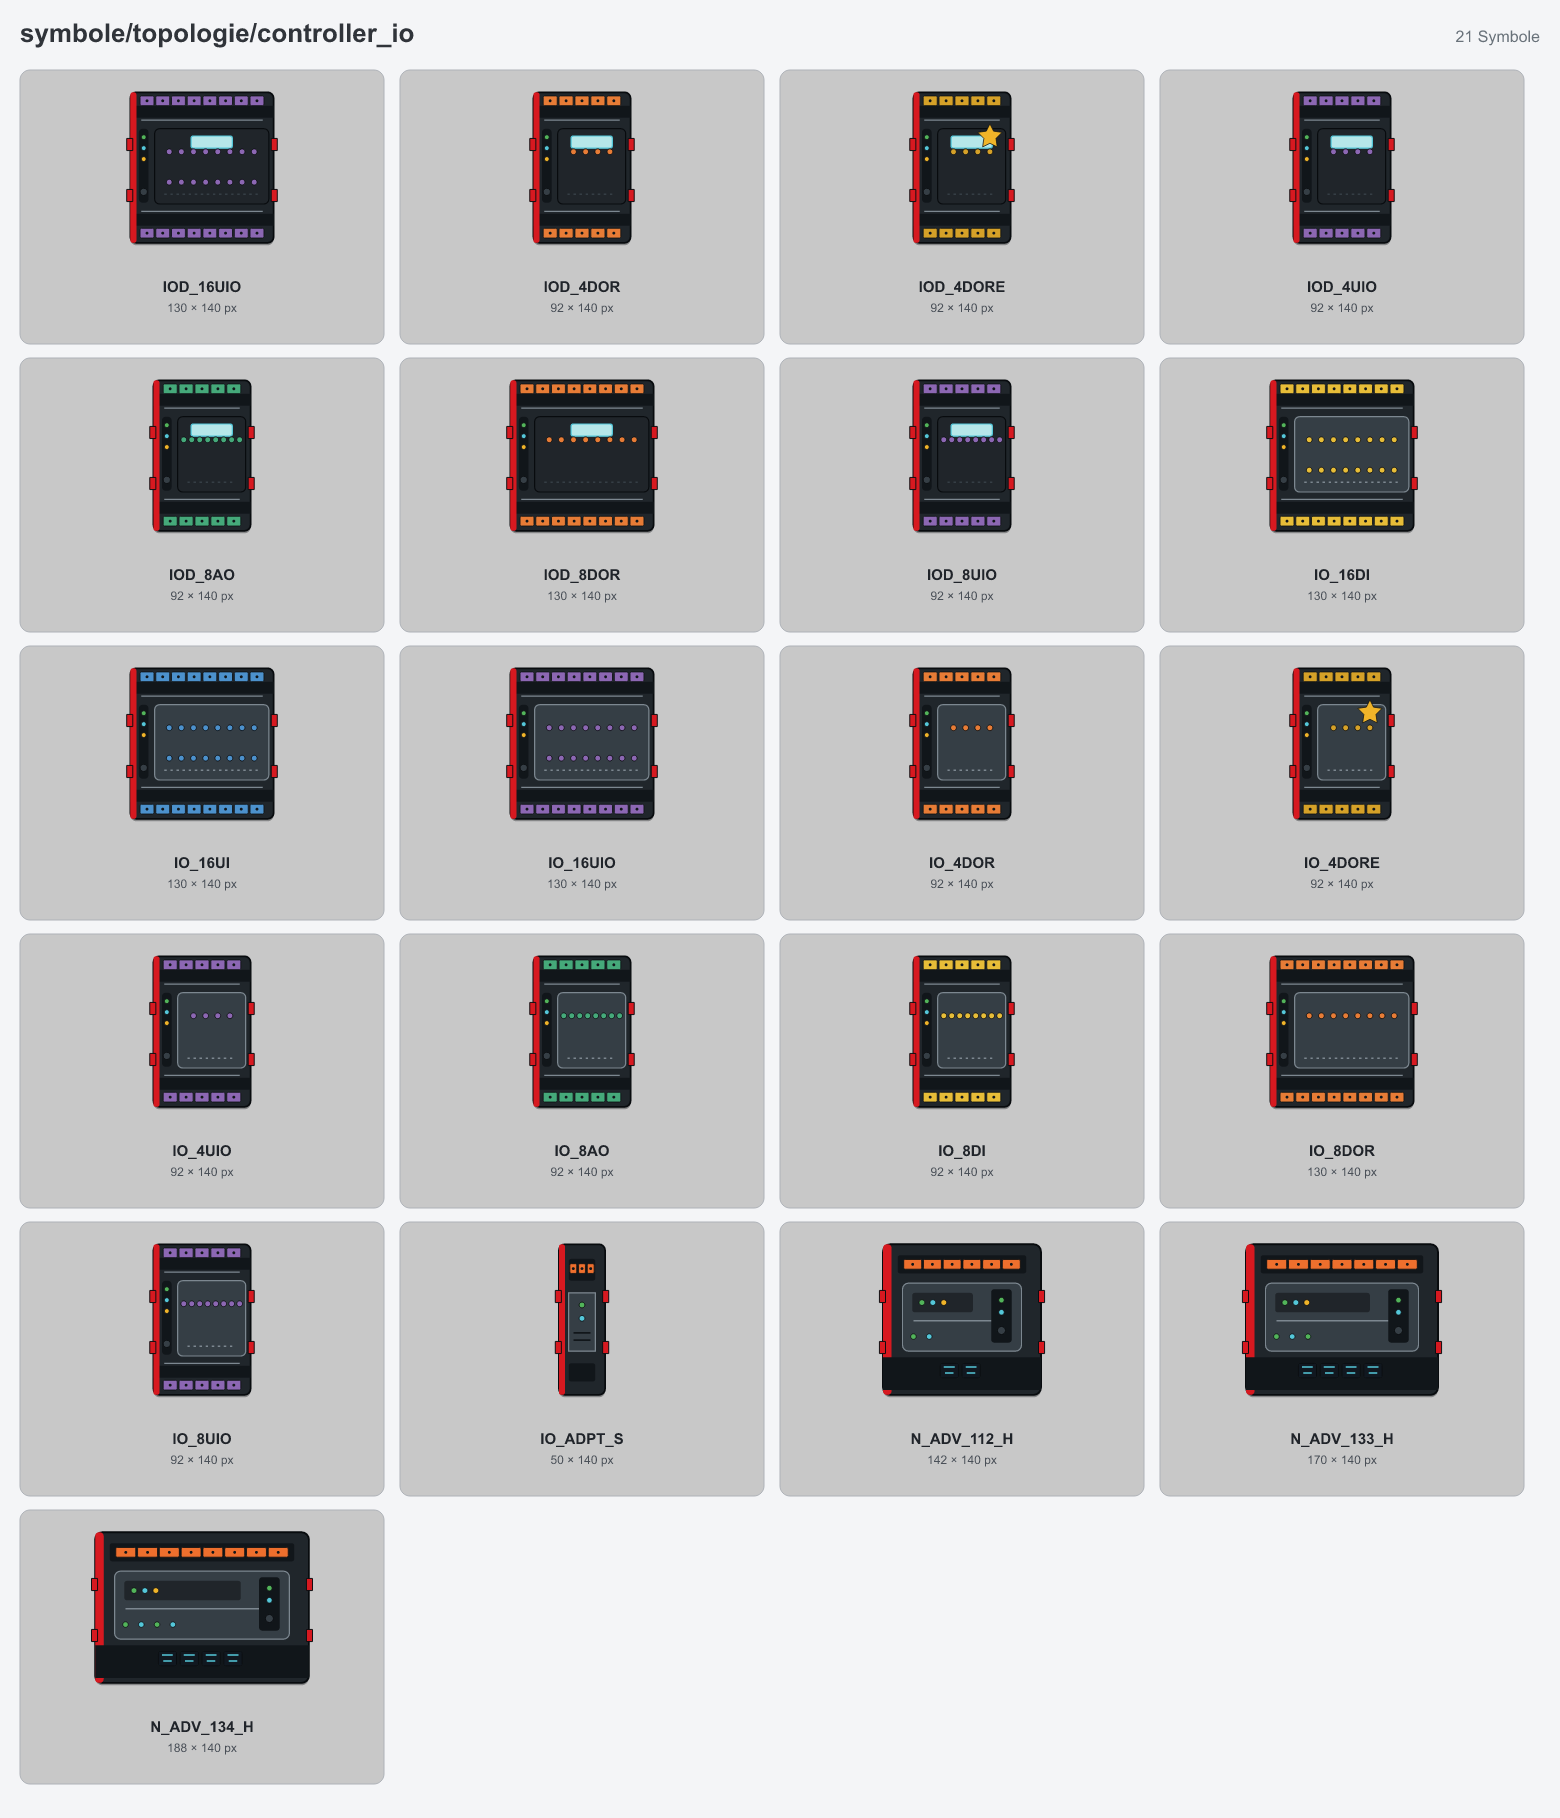
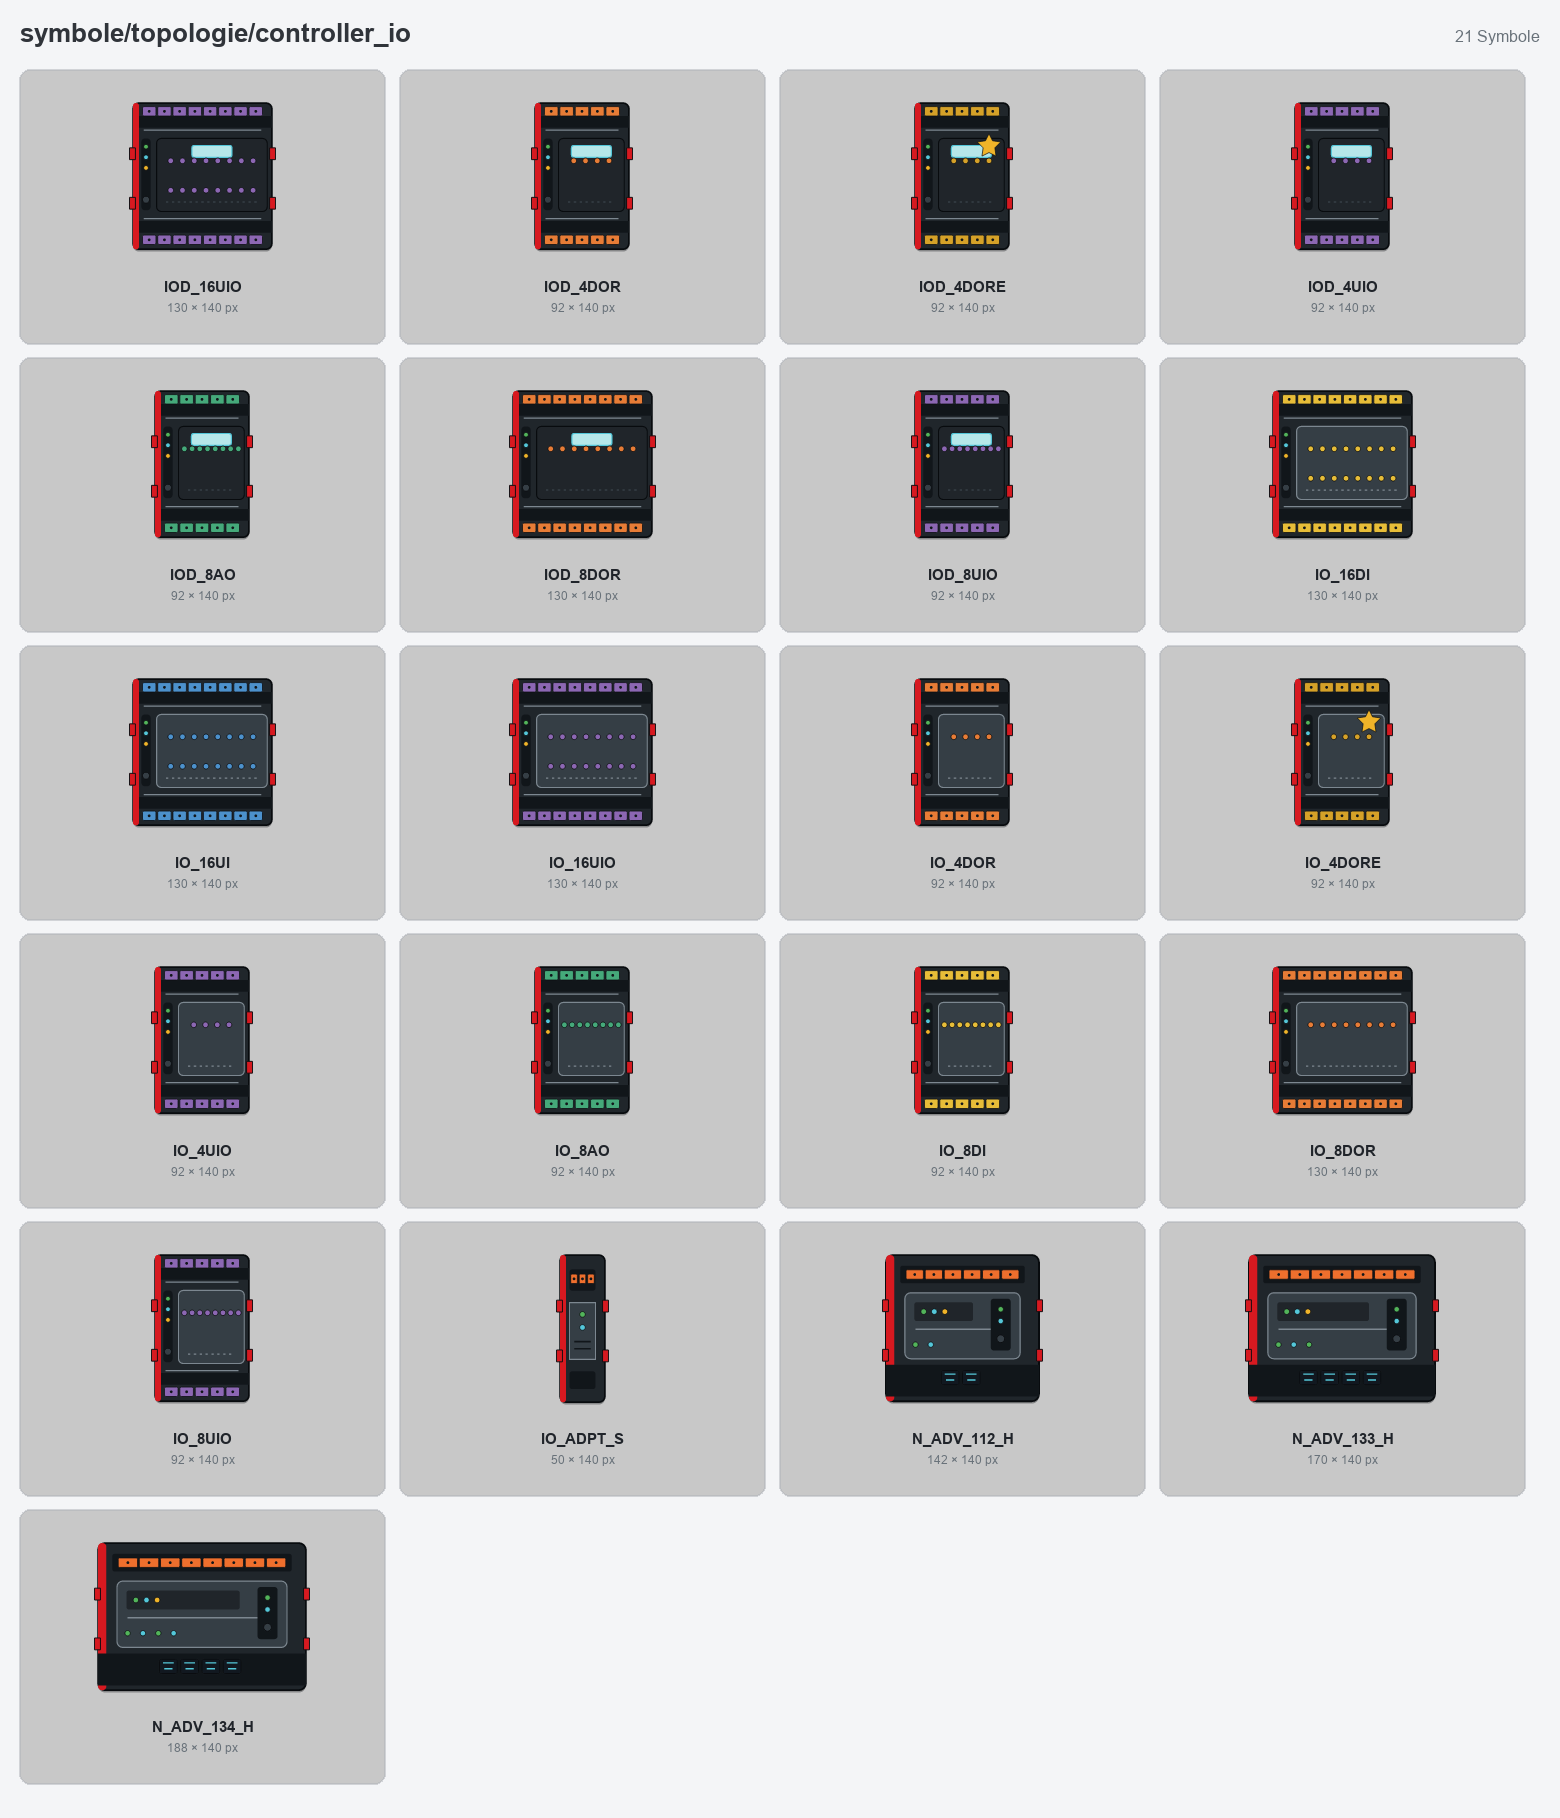
Generator tools/uebersichten.py für die Übersichtsgrafiken, Übersichten neu erzeugt

diff --git a/tools/uebersichten.py b/tools/uebersichten.py
@@ -1,0 +1,133 @@
+#!/usr/bin/env python3
+"""Erzeugt die Übersichtsgrafiken unter docs/uebersicht/ aus den PNGs unter symbole/.
+
+Je Symbolverzeichnis eine Grafik mit allen Symbolen (Kachel mit Vorschau,
+Dateiname und Größe). Verzeichnisse mit PNGs direkt in symbole/<name>/ und
+in symbole/topologie/<name>/ werden berücksichtigt.
+
+Benötigt Pillow (pip install pillow). Mit resvg-py (pip install resvg-py) werden die
+Vorschauen scharf aus den SVGs gerendert, sonst aus den PNGs skaliert.
+
+Aufruf: python tools/uebersichten.py [Zielordner]
+        python tools/uebersichten.py --nur lueftung [Zielordner]
+"""
+import io
+import sys
+from pathlib import Path
+
+from PIL import Image, ImageDraw, ImageFont
+
+try:
+    import resvg_py as _resvg
+except ImportError:
+    _resvg = None
+
+ROOT = Path(__file__).resolve().parent.parent
+SYMBOLE = ROOT / "symbole"
+
+BREITE = 1560
+RAND = 20
+KOPF = 70            # Höhe der Kopfzeile bis zur ersten Kachelreihe
+SPALTEN = 4
+KACHEL_B, KACHEL_H = 365, 275
+SCHRITT_X, SCHRITT_Y = 380, 288
+VORSCHAU_B, VORSCHAU_H = 280, 165   # Box für das Symbol, wird maßstäblich eingepasst
+VORSCHAU_MITTE_Y = 108              # Mitte der Box in der Kachel
+MAX_MASSSTAB = 3                    # kleine Symbole nicht stärker vergrößern
+MAX_ZEICHEN = 27                    # längere Namen werden zweizeilig
+
+HINTERGRUND = (244, 245, 247)
+KACHEL = (200, 200, 200)
+KACHEL_RAND = (187, 189, 192)
+KACHEL_SCHATTEN = (209, 211, 215)
+TITEL = (48, 52, 58)
+NAME = (32, 36, 42)
+GRAU = (105, 114, 122)
+
+SCHRIFTEN_FETT = ["arialbd.ttf", "LiberationSans-Bold.ttf", "DejaVuSans-Bold.ttf", "Helvetica-Bold.ttf"]
+SCHRIFTEN_NORMAL = ["arial.ttf", "LiberationSans-Regular.ttf", "DejaVuSans.ttf", "Helvetica.ttf"]
+
+
+def schrift(namen: list[str], groesse: int) -> ImageFont.FreeTypeFont:
+    for n in namen:
+        try:
+            return ImageFont.truetype(n, groesse)
+        except OSError:
+            continue
+    raise SystemExit("Keine passende Schrift gefunden (Arial, Liberation Sans oder DejaVu Sans installieren).")
+
+
+def namenszeilen(name: str) -> list[str]:
+    """Lange Namen werden am Unterstrich so auf zwei Zeilen verteilt, dass die längere Zeile möglichst kurz ist."""
+    if len(name) <= MAX_ZEICHEN or "_" not in name:
+        return [name]
+    stellen = [i for i, c in enumerate(name) if c == "_"]
+    i = min(stellen, key=lambda s: max(s, len(name) - s - 1))
+    return [name[:i], name[i + 1:]]
+
+
+def rendern(png: Path, groesse: tuple[int, int]) -> Image.Image | None:
+    """Rendert das SVG scharf in Zielgröße, wenn resvg-py installiert ist (pip install resvg-py)."""
+    svg = png.with_suffix(".svg")
+    if _resvg is None or not svg.exists():
+        return None
+    daten = _resvg.svg_to_bytes(svg_string=svg.read_text(encoding="utf-8"), width=groesse[0], height=groesse[1])
+    return Image.open(io.BytesIO(bytes(daten))).convert("RGBA")
+
+
+def kachel(bild: Image.Image, draw: ImageDraw.ImageDraw, x: int, y: int, png: Path, f_name, f_klein) -> None:
+    draw.rounded_rectangle((x - 1, y - 1, x + KACHEL_B, y + KACHEL_H - 1), radius=11, fill=KACHEL_SCHATTEN)
+    draw.rounded_rectangle((x, y, x + KACHEL_B - 1, y + KACHEL_H - 2), radius=10, fill=KACHEL, outline=KACHEL_RAND, width=1)
+
+    sym = Image.open(png).convert("RGBA")
+    massstab = min(VORSCHAU_B / sym.width, VORSCHAU_H / sym.height, MAX_MASSSTAB)
+    gr = (max(1, round(sym.width * massstab)), max(1, round(sym.height * massstab)))
+    vorschau = rendern(png, gr) or sym.resize(gr, Image.LANCZOS)
+    bild.paste(vorschau, (x + (KACHEL_B - gr[0]) // 2, y + VORSCHAU_MITTE_Y - gr[1] // 2), vorschau)
+
+    mx = x + KACHEL_B / 2
+    ty = y + 217
+    zeilen = namenszeilen(png.stem)
+    for z in zeilen:
+        draw.text((mx, ty), z, font=f_name, fill=NAME, anchor="mm")
+        ty += 18
+    draw.text((mx, ty + 3), f"{sym.width} × {sym.height} px", font=f_klein, fill=GRAU, anchor="mm")
+
+
+def uebersicht(ordner: Path, ziel: Path) -> Path:
+    pngs = sorted(ordner.glob("*.png"), key=lambda p: p.stem)
+    rel = ordner.relative_to(ROOT)
+    name = "Uebersicht_" + "_".join(rel.parts[1:]) + ".png"
+    zeilen = max(1, -(-len(pngs) // SPALTEN))
+    hoehe = KOPF + zeilen * SCHRITT_Y + RAND - (SCHRITT_Y - KACHEL_H) + 13
+    bild = Image.new("RGB", (BREITE, hoehe), HINTERGRUND)
+    draw = ImageDraw.Draw(bild)
+    draw.text((RAND, 33), rel.as_posix(), font=schrift(SCHRIFTEN_FETT, 26), fill=TITEL, anchor="lm")
+    draw.text((BREITE - RAND, 36), f"{len(pngs)} Symbole", font=schrift(SCHRIFTEN_NORMAL, 16), fill=GRAU, anchor="rm")
+    f_name, f_klein = schrift(SCHRIFTEN_FETT, 15), schrift(SCHRIFTEN_NORMAL, 12)
+    for i, png in enumerate(pngs):
+        kachel(bild, draw, RAND + (i % SPALTEN) * SCHRITT_X, KOPF + (i // SPALTEN) * SCHRITT_Y, png, f_name, f_klein)
+    ziel.mkdir(parents=True, exist_ok=True)
+    bild.save(ziel / name)
+    return ziel / name
+
+
+def symbolordner() -> list[Path]:
+    return sorted(p for p in SYMBOLE.rglob("*") if p.is_dir() and any(p.glob("*.png")))
+
+
+def main() -> int:
+    args = sys.argv[1:]
+    nur = None
+    if args[:1] == ["--nur"]:
+        nur, args = args[1], args[2:]
+    ziel = Path(args[0]) if args else ROOT / "docs" / "uebersicht"
+    for ordner in symbolordner():
+        if nur and nur not in ordner.relative_to(SYMBOLE).parts:
+            continue
+        print(uebersicht(ordner, ziel))
+    return 0
+
+
+if __name__ == "__main__":
+    sys.exit(main())

diff --git a/README.md b/README.md
@@ -20,6 +20,7 @@ docs/
   uebersicht/            Übersichtsgrafik je Symbolverzeichnis (PNG)
 tools/
   check_symbols.py       Prüft SVGs auf Regeln (kein <text>, Namensschema, PNG vorhanden)
+  uebersichten.py        Erzeugt die Übersichtsgrafiken in docs/uebersicht/ (Pillow, optional resvg-py)
 ```
 
 ## Übersicht der Symbole
